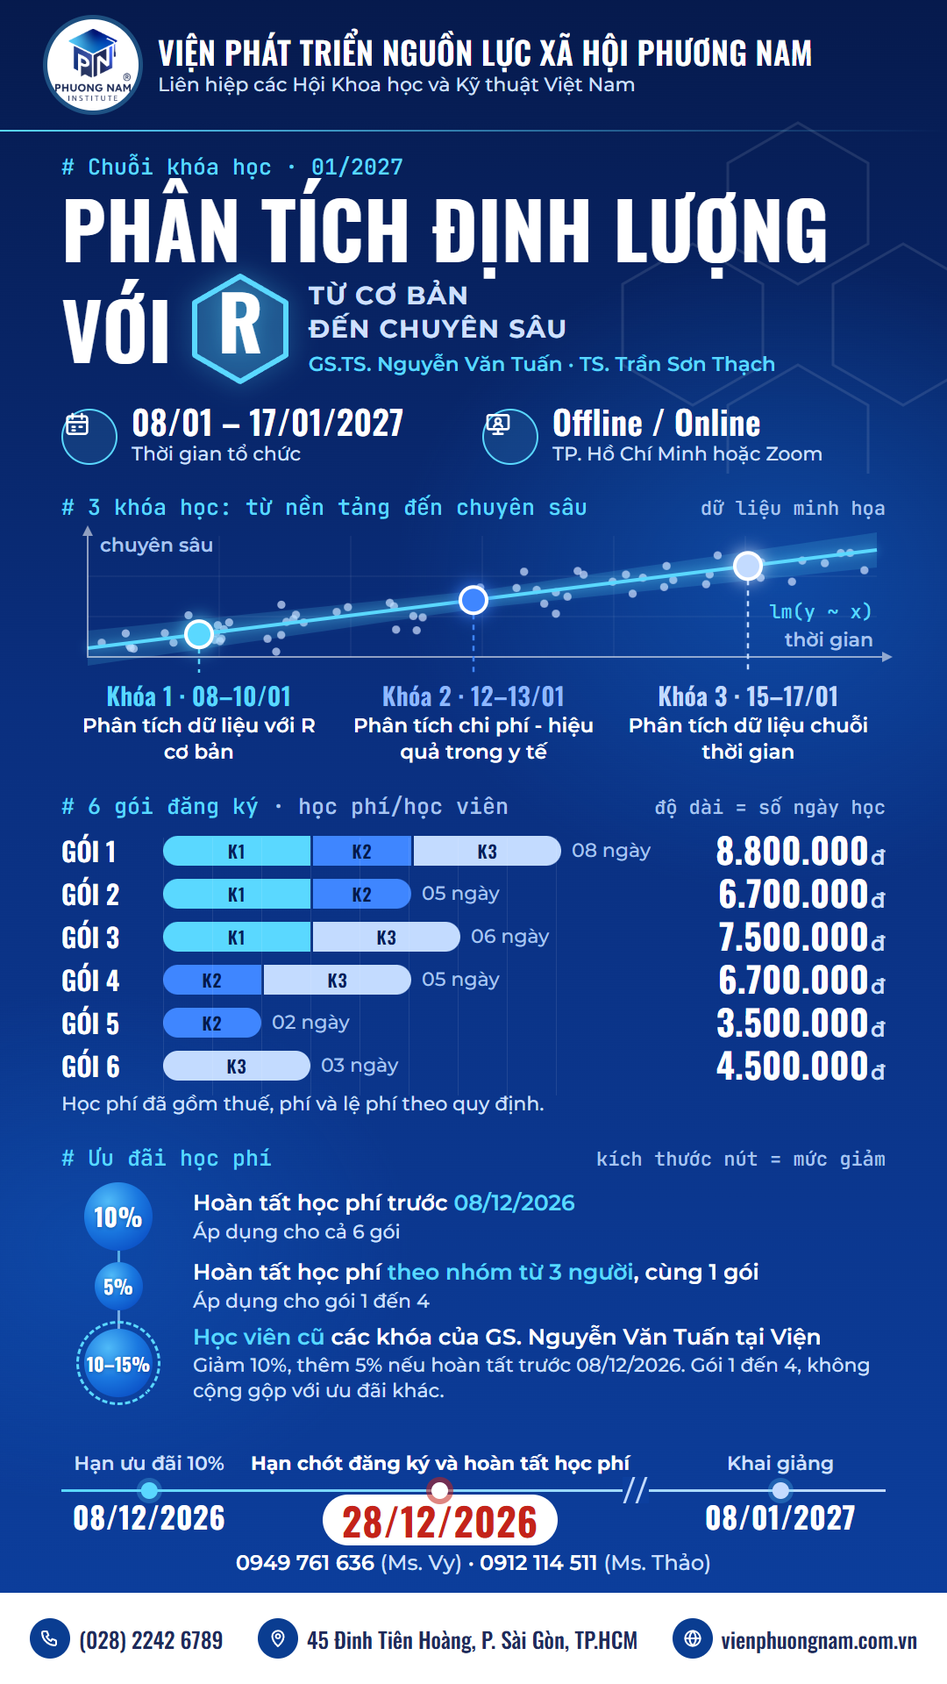
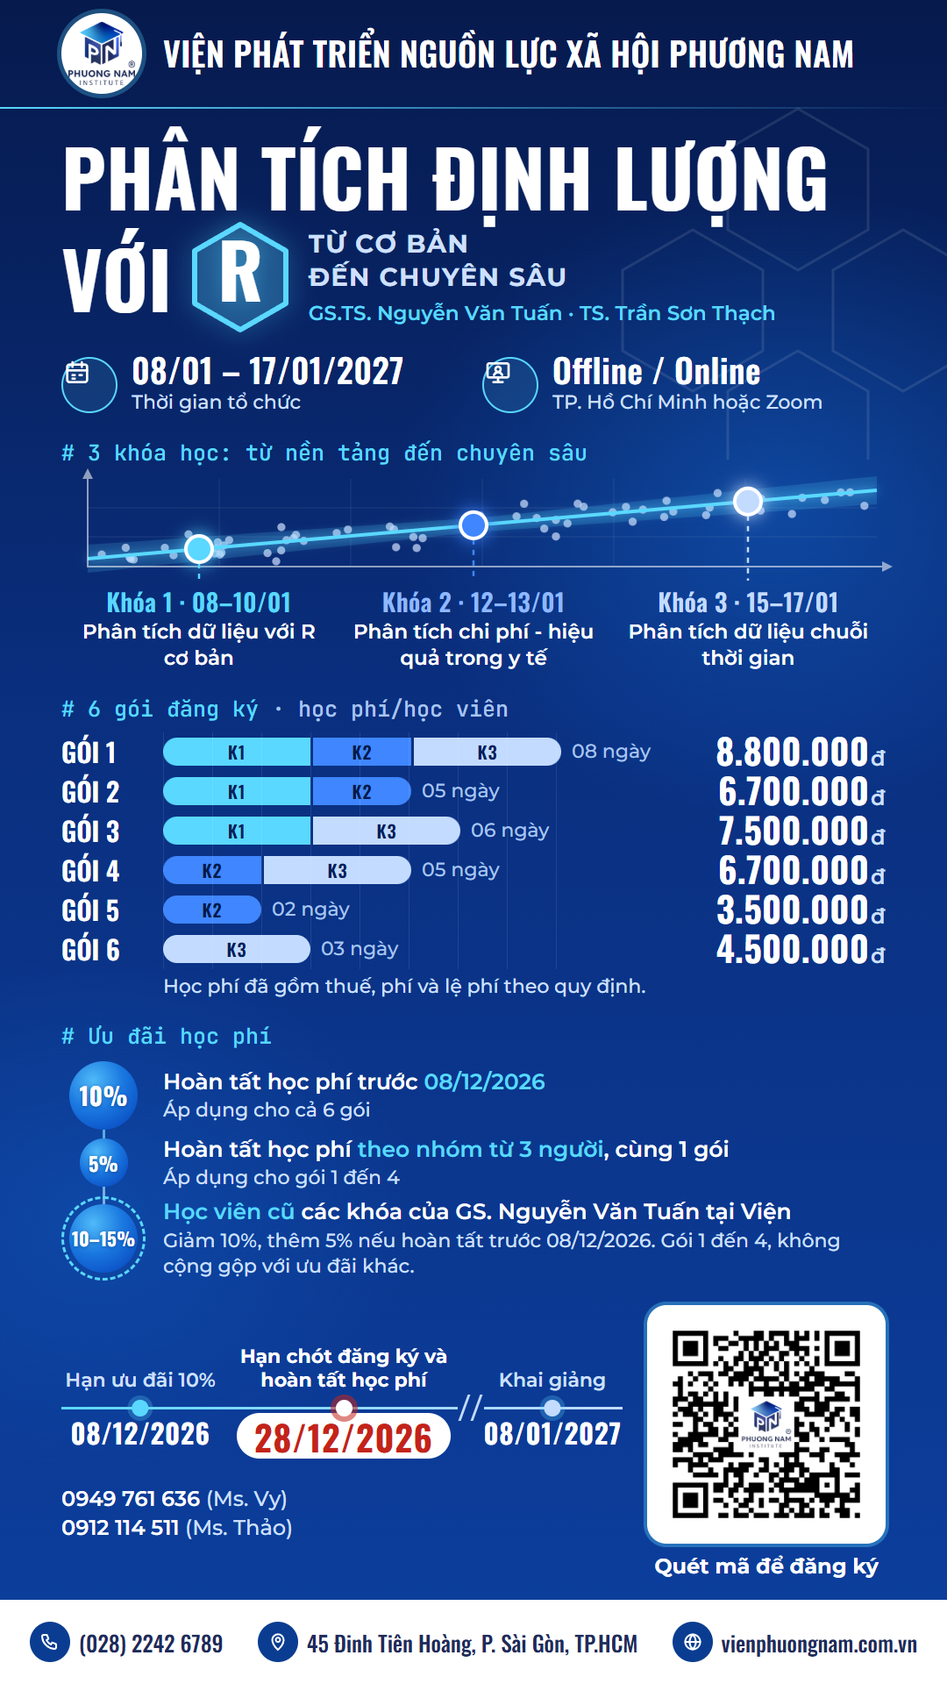
Tidy the Story poster and add the registration QR code
Client review of the data-lab Story poster asked for four changes:
drop the "Liên hiệp các Hội" line, check placement and alignment,
remove extra notes, and add the QR code from assets.

- Header: institute name on one line, centred with the logo badge.
- Removed notes: "dữ liệu minh họa", "độ dài = số ngày học",
  "kích thước nút = mức giảm", the axis words, lm(y ~ x) and the
  "# Chuỗi khóa học · 01/2027" eyebrow (dates are in the facts row).
- Grid: 70 px side margins; package bars, the tax note and discount
  text all start at x = 186; the largest discount ring touches the
  left margin. Time-axis dates now have 30-40 px between them.
- Closing block: time axis and Ms. Vy / Ms. Thao numbers on the left,
  the QR (assets/Mã QR chuỗi PTDL R 01.27.png) on the right at 228 px
  on white with a 22 px quiet zone and "Quét mã để đăng ký".
- Header, route chart, bars, footer and gaps tightened to make room.
- README: notes the removed captions as a client decision, the QR,
  the grid, and that the QR destination still needs a scan test.

diff --git a/media/poster/ads/story-khoa-goi-uu-dai.html b/media/poster/ads/story-khoa-goi-uu-dai.html
@@ -12,6 +12,7 @@
     (segment = course, length = days); discounts = node graph sized by percentage; dates = time axis with a break.
     R touches: section labels written as R comments, the R set in a hex sticker. Colour code K1/K2/K3 is shared
     by every chart. Blues come from the logo gradient and the institute's approved posters.
+    Grid: 70 px side margins; bars and discount text both start at x = 186.
   */
   :root {
     --bg-0: #061a4d; --bg-1: #0a2f7f; --bg-2: #0c3f9e;
@@ -21,6 +22,7 @@
     --text: "Montserrat", "Segoe UI", sans-serif;
     --code: "JetBrains Mono", Consolas, monospace;
     --day: 56px;
+    --lead: 116px; /* label column + gap: bars and discount text start here */
   }
   * { box-sizing: border-box; margin: 0; padding: 0; }
   html, body { background: #dfe7f0; }
@@ -28,31 +30,30 @@
   .ad {
     width: 1080px; height: 1920px; margin: 0 auto; position: relative; overflow: hidden; color: #fff;
     background:
-      radial-gradient(620px 520px at 82% 34%, rgba(22, 115, 227, 0.42), transparent 70%),
-      radial-gradient(520px 420px at 10% 74%, rgba(22, 115, 227, 0.28), transparent 70%),
+      radial-gradient(620px 520px at 82% 30%, rgba(22, 115, 227, 0.42), transparent 70%),
+      radial-gradient(520px 420px at 10% 72%, rgba(22, 115, 227, 0.28), transparent 70%),
       linear-gradient(180deg, var(--bg-0) 0%, var(--bg-1) 42%, var(--bg-2) 100%);
     font-family: var(--text); font-variant-numeric: lining-nums tabular-nums;
     display: flex; flex-direction: column;
   }
-  .hexes { position: absolute; right: -40px; top: 120px; width: 420px; height: 420px; opacity: 0.1; }
+  .hexes { position: absolute; right: -40px; top: 104px; width: 420px; height: 420px; opacity: 0.1; }
   .ad > * { position: relative; }
   .ad > .hexes { position: absolute; }
   .wrap { width: 940px; margin: 0 auto; }
 
   /* Header, as on the approved posters, on the same canvas */
-  .top { flex: none; height: 150px; display: flex; align-items: center; gap: 22px; padding: 0 54px;
+  .top { flex: none; height: 124px; display: flex; align-items: center; gap: 24px; padding: 0 70px;
          border-bottom: 2px solid transparent; border-image: linear-gradient(90deg, var(--k1), rgba(90, 216, 255, 0)) 1; }
-  .badge { flex: none; width: 104px; height: 104px; border-radius: 50%; background: #fff; display: grid; place-items: center; box-shadow: 0 0 0 5px rgba(90, 216, 255, 0.28); }
-  .badge img { width: 86px; }
-  .top p { font: 600 36px/1.3 var(--display); text-transform: uppercase; letter-spacing: 0.01em; }
-  .top p small { display: block; font: 500 22px/1.3 var(--text); text-transform: none; letter-spacing: 0; color: var(--tint); }
+  .badge { flex: none; width: 92px; height: 92px; border-radius: 50%; background: #fff; display: grid; place-items: center; box-shadow: 0 0 0 5px rgba(90, 216, 255, 0.28); }
+  .badge img { width: 76px; }
+  .top p { font: 600 38px/1.3 var(--display); text-transform: uppercase; letter-spacing: 0.01em; }
 
   .code { font: 500 25px/1.3 var(--code); color: var(--k1); }
   .code .dim { color: var(--soft); }
 
   /* Title lockup */
-  .title { margin-top: 24px; }
-  .title h1 { margin-top: 4px; white-space: nowrap; font: 700 89px/1.08 var(--display); text-transform: uppercase; letter-spacing: 0.002em; }
+  .title { margin-top: 28px; }
+  .title h1 { white-space: nowrap; font: 700 89px/1.08 var(--display); text-transform: uppercase; letter-spacing: 0.002em; }
   .title .row2 { display: flex; align-items: center; gap: 22px; margin-top: 4px; }
   .title .row2 b { font: 700 89px/1 var(--display); text-transform: uppercase; }
   .hex { flex: none; width: 112px; height: 128px; filter: drop-shadow(0 0 14px rgba(90, 216, 255, 0.55)); }
@@ -66,14 +67,11 @@
   .ring svg { width: 32px; height: 32px; }
   .fact b { display: block; font: 600 38px/1.05 var(--display); letter-spacing: 0.01em; }
   .fact span { display: block; font: 500 22px/1.3 var(--text); color: var(--tint); margin-top: 3px; }
-  .teach { margin-top: 16px; font: 600 25px/1.35 var(--text); }
-  .teach em { font-style: normal; color: var(--k1); }
 
-  .sec { display: flex; justify-content: space-between; align-items: baseline; margin-top: 30px; }
-  .sec small { font: 500 22px/1 var(--code); color: var(--soft); }
+  .sec { margin-top: 26px; }
 
   /* Chart 1: route of the 3 courses */
-  .route svg { display: block; width: 940px; height: 170px; margin-top: 4px; overflow: visible; }
+  .route svg { display: block; width: 940px; height: 124px; margin-top: 6px; overflow: visible; }
   .route .cols { display: grid; grid-template-columns: repeat(3, 1fr); margin-top: 8px; }
   .route .cols div { text-align: center; padding: 0 10px; }
   .route .cols b { display: block; font: 600 28px/1.15 var(--display); letter-spacing: 0.02em; }
@@ -81,31 +79,30 @@
   .c1 { color: var(--k1); } .c2 { color: var(--k2-text); } .c3 { color: var(--k3); }
 
   /* Chart 2: packages as stacked bars, segment = course, length = days */
-  .bars { margin-top: 10px; }
-  .bar { display: grid; grid-template-columns: 104px auto 1fr auto; align-items: center; column-gap: 12px; height: 49px; }
+  .bars-wrap { position: relative; margin-top: 10px; }
+  .bars-wrap::before { content: ""; position: absolute; left: var(--lead); top: 0; width: calc(var(--day) * 8 + 6px); height: 100%;
+    background: repeating-linear-gradient(90deg, var(--grid) 0 1px, transparent 1px var(--day)); pointer-events: none; }
+  .bar { display: grid; grid-template-columns: calc(var(--lead) - 12px) auto 1fr auto; align-items: center; column-gap: 12px; height: 45px; }
   .bar .pk { font: 600 30px/1 var(--display); text-transform: uppercase; }
-  .track { display: flex; gap: 3px; height: 34px; }
-  .seg { display: grid; place-items: center; height: 34px; font: 600 20px/1 var(--display); letter-spacing: 0.04em; font-style: normal; }
-  .seg:first-child { border-radius: 17px 0 0 17px; } .seg:last-child { border-radius: 0 17px 17px 0; } .seg:only-child { border-radius: 17px; }
+  .track { display: flex; gap: 3px; height: 32px; }
+  .seg { display: grid; place-items: center; height: 32px; font: 600 20px/1 var(--display); letter-spacing: 0.04em; font-style: normal; }
+  .seg:first-child { border-radius: 16px 0 0 16px; } .seg:last-child { border-radius: 0 16px 16px 0; } .seg:only-child { border-radius: 16px; }
   .s1 { width: calc(var(--day) * 3); background: var(--k1); color: var(--ink-dark); }
   .s2 { width: calc(var(--day) * 2); background: var(--k2); color: #041a4a; }
   .s3 { width: calc(var(--day) * 3); background: var(--k3); color: var(--ink-dark); }
   .bar .d { font: 500 22px/1 var(--text); color: var(--soft); }
   .bar .fee { font: 700 40px/1 var(--display); letter-spacing: 0.01em; text-align: right; }
   .bar .fee small { font: 600 24px var(--text); color: var(--tint); margin-left: 2px; }
-  .note { margin-top: 6px; font: 500 22px/1.3 var(--text); color: var(--tint); }
-  .bars-wrap { position: relative; }
-  .bars-wrap::before { content: ""; position: absolute; left: 116px; top: 10px; width: calc(var(--day) * 8 + 6px); height: calc(49px * 6);
-    background: repeating-linear-gradient(90deg, var(--grid) 0 1px, transparent 1px var(--day)); pointer-events: none; }
+  .note { margin-top: 6px; padding-left: var(--lead); font: 500 22px/1.3 var(--text); color: var(--tint); }
 
   /* Chart 3: discounts as a node graph, node area follows the percentage */
   .deals { list-style: none; margin-top: 12px; position: relative; }
-  .deals::before { content: ""; position: absolute; left: 64px; top: 40px; bottom: 60px; width: 3px; background: linear-gradient(var(--k1), var(--k3)); opacity: 0.7; }
-  .deals li { display: grid; grid-template-columns: 130px 1fr; align-items: center; column-gap: 20px; }
-  .deals li + li { margin-top: 8px; }
-  .node { justify-self: center; position: relative; display: grid; place-items: center; border-radius: 50%; font: 700 30px/1 var(--display); letter-spacing: 0.01em;
+  .deals::before { content: ""; position: absolute; left: 46.5px; top: 40px; bottom: 50px; width: 3px; background: linear-gradient(var(--k1), var(--k3)); opacity: 0.7; }
+  .deals li { display: grid; grid-template-columns: 96px 1fr; align-items: center; column-gap: 20px; }
+  .deals li + li { margin-top: 6px; }
+  .node { justify-self: center; position: relative; display: grid; place-items: center; border-radius: 50%; font: 700 28px/1 var(--display); letter-spacing: 0.01em;
           background: radial-gradient(circle at 35% 28%, #4fbaf8 0%, #1a78e0 45%, #0d55c9 78%); color: #fff; text-shadow: 0 1px 4px rgba(6, 32, 90, 0.5); }
-  .n10 { width: 78px; height: 78px; font-size: 28px; }
+  .n10 { width: 78px; height: 78px; }
   .n5 { width: 55px; height: 55px; font-size: 22px; }
   .n15 { width: 78px; height: 78px; font-size: 21px; margin: 9px; }
   .n15::after { content: ""; position: absolute; inset: -9px; border-radius: 50%; border: 3px dashed var(--k1); }
@@ -113,26 +110,30 @@
   .deals p em { font-style: normal; color: var(--k1); }
   .deals p small { display: block; margin-top: 3px; font: 500 22px/1.3 var(--text); color: var(--tint); }
 
-  /* Chart 4: time axis with a break */
-  .time { position: relative; height: 136px; margin-top: 22px; }
+  /* Closing block: time axis with a break on the left, registration QR on the right */
+  .end { margin-top: 28px; display: grid; grid-template-columns: 1fr 272px; column-gap: 28px; align-items: center; }
+  .time { position: relative; height: 136px; }
   .time .line { position: absolute; left: 0; right: 0; top: 74px; height: 3px; background: linear-gradient(90deg, var(--k1), var(--k3)); }
-  .time .brk { position: absolute; top: 60px; width: 30px; height: 30px; left: 640px; background: var(--bg-2); }
+  .time .brk { position: absolute; top: 60px; width: 30px; height: 30px; left: 452px; background: #0b3a95; }
   .time .brk::before, .time .brk::after { content: ""; position: absolute; top: 0; width: 3px; height: 30px; background: var(--k3); transform: skewX(-20deg); }
   .time .brk::before { left: 6px; } .time .brk::after { left: 20px; }
   .mk { position: absolute; top: 0; transform: translateX(-50%); text-align: center; }
   .mk .ev { height: 58px; display: flex; align-items: flex-end; justify-content: center; font: 600 22px/1.25 var(--text); color: var(--tint); white-space: nowrap; }
-  .mk .dt { display: inline-block; margin-top: 30px; font: 700 34px/1 var(--display); letter-spacing: 0.02em; }
+  .mk .dt { display: inline-block; margin-top: 30px; font: 700 31px/1 var(--display); letter-spacing: 0.02em; }
   .mk::before { content: ""; position: absolute; left: 50%; top: 66px; width: 19px; height: 19px; margin-left: -9.5px; border-radius: 50%; background: var(--k1); box-shadow: 0 0 0 5px rgba(90, 216, 255, 0.25); }
   .mk.hot::before { background: #fff; box-shadow: 0 0 0 6px rgba(196, 35, 26, 0.55); }
-  .mk.hot .ev { color: #fff; font-weight: 700; }
-  .mk.hot .dt { margin-top: 22px; background: #fff; color: var(--signal); border-radius: 30px; padding: 8px 22px 6px; font-size: 44px; }
+  .mk.hot .ev { width: 260px; white-space: normal; color: #fff; font-weight: 700; }
+  .mk.hot .dt { margin-top: 23px; background: #fff; color: var(--signal); border-radius: 28px; padding: 7px 20px 5px; font-size: 40px; }
   .mk.k3::before { background: var(--k3); }
-
-  .contact { margin-top: 6px; text-align: center; font: 600 24px/1.3 var(--text); }
+  .contact { margin-top: 26px; font: 600 24px/1.4 var(--text); }
   .contact span { color: var(--tint); font-weight: 500; }
+  .qr { margin: 0; text-align: center; }
+  .qr .box { width: 272px; height: 272px; padding: 22px; border-radius: 22px; background: #fff; box-shadow: 0 0 0 4px rgba(90, 216, 255, 0.35); }
+  .qr img { display: block; width: 228px; height: 228px; }
+  .qr figcaption { margin-top: 12px; font: 700 24px/1.2 var(--text); }
 
   /* Footer strip, as on the approved posters */
-  .foot { flex: none; height: 104px; margin-top: auto; background: #fff; display: flex; align-items: center; justify-content: space-between; padding: 0 34px; }
+  .foot { flex: none; height: 96px; margin-top: auto; background: #fff; display: flex; align-items: center; justify-content: space-between; padding: 0 34px; }
   .foot div { display: flex; align-items: center; gap: 10px; font: 500 25px/1 var(--display); color: #1f2a5a; white-space: nowrap; }
   .foot .ico { width: 46px; height: 46px; border-radius: 50%; background: #0a3d91; display: grid; place-items: center; }
   .foot .ico svg { width: 24px; height: 24px; }
@@ -150,11 +151,10 @@
 
   <header class="top">
     <span class="badge"><img src="../../brand-kit/logo/logo-color.png" alt="Logo Viện Phương Nam"></span>
-    <p>Viện Phát triển Nguồn lực Xã hội Phương Nam<small>Liên hiệp các Hội Khoa học và Kỹ thuật Việt Nam</small></p>
+    <p>Viện Phát triển Nguồn lực Xã hội Phương Nam</p>
   </header>
 
   <section class="wrap title">
-    <p class="code"># Chuỗi khóa học · 01/2027</p>
     <h1>Phân tích định lượng</h1>
     <div class="row2">
       <b>với</b>
@@ -178,8 +178,8 @@
   </section>
 
   <section class="wrap route" aria-label="Ba khóa học">
-    <div class="sec"><p class="code"># 3 khóa học: từ nền tảng đến chuyên sâu</p><small>dữ liệu minh họa</small></div>
-    <svg id="route" viewBox="0 0 940 170" aria-hidden="true"></svg>
+    <p class="code sec"># 3 khóa học: từ nền tảng đến chuyên sâu</p>
+    <svg id="route" viewBox="0 0 940 124" aria-hidden="true"></svg>
     <div class="cols">
       <div><b class="c1">Khóa 1 · 08–10/01</b><span>Phân tích dữ liệu với R cơ bản</span></div>
       <div><b class="c2">Khóa 2 · 12–13/01</b><span>Phân tích chi phí - hiệu quả trong y tế</span></div>
@@ -188,22 +188,20 @@
   </section>
 
   <section class="wrap" aria-label="Gói đăng ký và học phí">
-    <div class="sec"><p class="code"># 6 gói đăng ký <span class="dim">· học phí/học viên</span></p><small>độ dài = số ngày học</small></div>
+    <p class="code sec"># 6 gói đăng ký <span class="dim">· học phí/học viên</span></p>
     <div class="bars-wrap">
-      <div class="bars">
-        <div class="bar"><span class="pk">Gói 1</span><span class="track"><i class="seg s1">K1</i><i class="seg s2">K2</i><i class="seg s3">K3</i></span><span class="d">08 ngày</span><b class="fee">8.800.000<small>đ</small></b></div>
-        <div class="bar"><span class="pk">Gói 2</span><span class="track"><i class="seg s1">K1</i><i class="seg s2">K2</i></span><span class="d">05 ngày</span><b class="fee">6.700.000<small>đ</small></b></div>
-        <div class="bar"><span class="pk">Gói 3</span><span class="track"><i class="seg s1">K1</i><i class="seg s3">K3</i></span><span class="d">06 ngày</span><b class="fee">7.500.000<small>đ</small></b></div>
-        <div class="bar"><span class="pk">Gói 4</span><span class="track"><i class="seg s2">K2</i><i class="seg s3">K3</i></span><span class="d">05 ngày</span><b class="fee">6.700.000<small>đ</small></b></div>
-        <div class="bar"><span class="pk">Gói 5</span><span class="track"><i class="seg s2">K2</i></span><span class="d">02 ngày</span><b class="fee">3.500.000<small>đ</small></b></div>
-        <div class="bar"><span class="pk">Gói 6</span><span class="track"><i class="seg s3">K3</i></span><span class="d">03 ngày</span><b class="fee">4.500.000<small>đ</small></b></div>
-      </div>
+      <div class="bar"><span class="pk">Gói 1</span><span class="track"><i class="seg s1">K1</i><i class="seg s2">K2</i><i class="seg s3">K3</i></span><span class="d">08 ngày</span><b class="fee">8.800.000<small>đ</small></b></div>
+      <div class="bar"><span class="pk">Gói 2</span><span class="track"><i class="seg s1">K1</i><i class="seg s2">K2</i></span><span class="d">05 ngày</span><b class="fee">6.700.000<small>đ</small></b></div>
+      <div class="bar"><span class="pk">Gói 3</span><span class="track"><i class="seg s1">K1</i><i class="seg s3">K3</i></span><span class="d">06 ngày</span><b class="fee">7.500.000<small>đ</small></b></div>
+      <div class="bar"><span class="pk">Gói 4</span><span class="track"><i class="seg s2">K2</i><i class="seg s3">K3</i></span><span class="d">05 ngày</span><b class="fee">6.700.000<small>đ</small></b></div>
+      <div class="bar"><span class="pk">Gói 5</span><span class="track"><i class="seg s2">K2</i></span><span class="d">02 ngày</span><b class="fee">3.500.000<small>đ</small></b></div>
+      <div class="bar"><span class="pk">Gói 6</span><span class="track"><i class="seg s3">K3</i></span><span class="d">03 ngày</span><b class="fee">4.500.000<small>đ</small></b></div>
     </div>
     <p class="note">Học phí đã gồm thuế, phí và lệ phí theo quy định.</p>
   </section>
 
   <section class="wrap" aria-label="Ưu đãi học phí">
-    <div class="sec"><p class="code"># Ưu đãi học phí</p><small>kích thước nút = mức giảm</small></div>
+    <p class="code sec"># Ưu đãi học phí</p>
     <ul class="deals">
       <li><span class="node n10">10%</span><p>Hoàn tất học phí trước <em>08/12/2026</em><small>Áp dụng cho cả 6 gói</small></p></li>
       <li><span class="node n5">5%</span><p>Hoàn tất học phí <em>theo nhóm từ 3 người</em>, cùng 1 gói<small>Áp dụng cho gói 1 đến 4</small></p></li>
@@ -211,15 +209,21 @@
     </ul>
   </section>
 
-  <section class="wrap" aria-label="Mốc thời gian">
-    <div class="time">
-      <div class="line"></div>
-      <span class="brk"></span>
-      <div class="mk" style="left: 100px"><span class="ev">Hạn ưu đãi 10%</span><span class="dt">08/12/2026</span></div>
-      <div class="mk hot" style="left: 432px"><span class="ev">Hạn chót đăng ký và hoàn tất học phí</span><span class="dt">28/12/2026</span></div>
-      <div class="mk k3" style="left: 820px"><span class="ev">Khai giảng</span><span class="dt">08/01/2027</span></div>
+  <section class="wrap end" aria-label="Mốc thời gian và đăng ký">
+    <div>
+      <div class="time">
+        <div class="line"></div>
+        <span class="brk"></span>
+        <div class="mk" style="left: 90px"><span class="ev">Hạn ưu đãi 10%</span><span class="dt">08/12/2026</span></div>
+        <div class="mk hot" style="left: 322px"><span class="ev">Hạn chót đăng ký và hoàn tất học phí</span><span class="dt">28/12/2026</span></div>
+        <div class="mk k3" style="left: 560px"><span class="ev">Khai giảng</span><span class="dt">08/01/2027</span></div>
+      </div>
+      <p class="contact">0949 761 636 <span>(Ms. Vy)</span><br>0912 114 511 <span>(Ms. Thảo)</span></p>
     </div>
-    <p class="contact">0949 761 636 <span>(Ms. Vy)</span> · 0912 114 511 <span>(Ms. Thảo)</span></p>
+    <figure class="qr">
+      <div class="box"><img src="../../../assets/M%C3%A3%20QR%20chu%E1%BB%97i%20PTDL%20R%2001.27.png" alt="Mã QR đăng ký chuỗi khóa học"></div>
+      <figcaption>Quét mã để đăng ký</figcaption>
+    </figure>
   </section>
 
   <footer class="foot">
@@ -230,33 +234,30 @@
 </article>
 
 <script>
-  // Route chart: simulated scatter around a rising fit line, 95% band, three course milestones.
+  // Route chart: simulated scatter around a rising fit line, band, three course milestones.
   (function () {
     var seed = 20270108;
     function rand() { seed |= 0; seed = seed + 0x6d2b79f5 | 0; var t = Math.imul(seed ^ seed >>> 15, 1 | seed); t = t + Math.imul(t ^ t >>> 7, 61 | t) ^ t; return ((t ^ t >>> 14) >>> 0) / 4294967296; }
     function gauss() { return Math.sqrt(-2 * Math.log(rand() || 1e-9)) * Math.cos(2 * Math.PI * rand()); }
-    var L = 30, R = 930, T = 12, B = 150;
-    function fit(x) { return 140 - (x - L) / (R - L) * 112; }
+    var L = 30, R = 930, T = 8, B = 108;
+    function fit(x) { return 99 - (x - L) / (R - L) * 78; }
     var s = '';
-    for (var g = 1; g <= 2; g++) s += '<line x1="' + L + '" x2="' + R + '" y1="' + (T + g * 46) + '" y2="' + (T + g * 46) + '" stroke="rgba(255,255,255,.09)"/>';
+    for (var g = 1; g <= 2; g++) s += '<line x1="' + L + '" x2="' + R + '" y1="' + (T + g * 33) + '" y2="' + (T + g * 33) + '" stroke="rgba(255,255,255,.09)"/>';
     for (var v = 1; v <= 5; v++) s += '<line y1="' + T + '" y2="' + B + '" x1="' + (L + v * 150) + '" x2="' + (L + v * 150) + '" stroke="rgba(255,255,255,.09)"/>';
     var up = [], lo = [];
-    for (var x = L; x <= R; x += 30) { var w = 10 + Math.abs(x - 480) / 450 * 10; up.push(x + ',' + (fit(x) - w).toFixed(1)); lo.unshift(x + ',' + (fit(x) + w).toFixed(1)); }
+    for (var x = L; x <= R; x += 30) { var w = 8 + Math.abs(x - 480) / 450 * 8; up.push(x + ',' + (fit(x) - w).toFixed(1)); lo.unshift(x + ',' + (fit(x) + w).toFixed(1)); }
     s += '<polygon points="' + up.concat(lo).join(' ') + '" fill="#5ad8ff" fill-opacity=".16"/>';
     for (var i = 0; i < 64; i++) {
-      var px = L + 10 + rand() * (R - L - 20), py = Math.min(B - 6, Math.max(T + 6, fit(px) + gauss() * 13));
+      var px = L + 10 + rand() * (R - L - 20), py = Math.min(B - 6, Math.max(T + 6, fit(px) + gauss() * 10));
       s += '<circle cx="' + px.toFixed(1) + '" cy="' + py.toFixed(1) + '" r="4.6" fill="#cfe0ff" fill-opacity=".7"/>';
     }
     s += '<line x1="' + L + '" y1="' + fit(L) + '" x2="' + R + '" y2="' + fit(R) + '" stroke="#5ad8ff" stroke-width="4" style="filter: drop-shadow(0 0 6px rgba(90,216,255,.8))"/>';
     s += '<path d="M' + L + ' ' + T + 'V' + B + 'H' + (R + 6) + '" fill="none" stroke="rgba(255,255,255,.55)" stroke-width="2"/>';
     s += '<path d="M' + (R + 6) + ' ' + (B - 6) + 'l12 6-12 6z" fill="rgba(255,255,255,.55)"/><path d="M' + (L - 6) + ' ' + T + 'l6-12 6 12z" fill="rgba(255,255,255,.55)"/>';
-    s += '<text x="' + (L + 14) + '" y="' + (T + 18) + '" fill="#a8c4f0" font-family="Montserrat, sans-serif" font-weight="600" font-size="22">chuyên sâu</text>';
-    s += '<text x="' + (R - 4) + '" y="' + (B - 12) + '" text-anchor="end" fill="#a8c4f0" font-family="Montserrat, sans-serif" font-weight="600" font-size="22">thời gian</text>';
-    s += '<text x="' + (R - 4) + '" y="' + (B - 44) + '" text-anchor="end" fill="#5ad8ff" font-family="JetBrains Mono, monospace" font-weight="500" font-size="22">lm(y ~ x)</text>';
     var ms = [[157, '#5ad8ff'], [470, '#3f86ff'], [783, '#c3dbff']];
     ms.forEach(function (m) {
       var y = fit(m[0]);
-      s += '<line x1="' + m[0] + '" x2="' + m[0] + '" y1="' + (y + 16) + '" y2="' + (B + 18) + '" stroke="' + m[1] + '" stroke-width="2.5" stroke-dasharray="6 6"/>';
+      s += '<line x1="' + m[0] + '" x2="' + m[0] + '" y1="' + (y + 16) + '" y2="' + (B + 16) + '" stroke="' + m[1] + '" stroke-width="2.5" stroke-dasharray="6 6"/>';
       s += '<circle cx="' + m[0] + '" cy="' + y + '" r="15" fill="' + m[1] + '" stroke="#fff" stroke-width="4" style="filter: drop-shadow(0 0 10px ' + m[1] + ')"/>';
     });
     document.getElementById('route').innerHTML = s;
